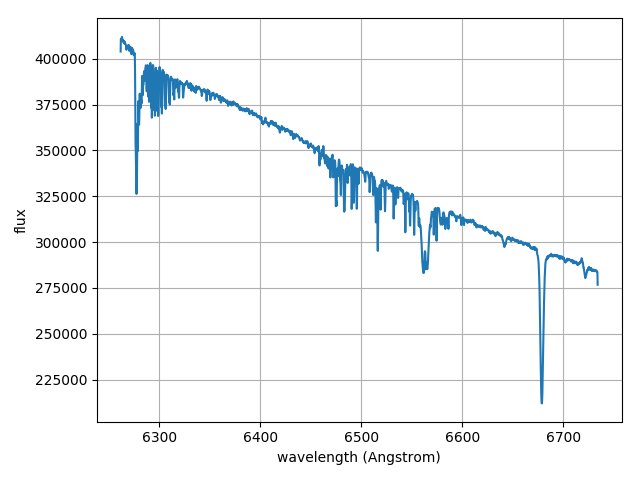
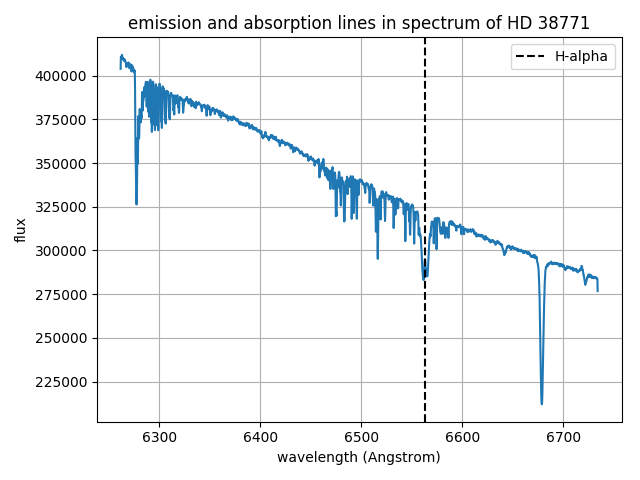
Add info about archives and h-alpha

diff --git a/tex/spectral-data.tex b/tex/spectral-data.tex
@@ -15,7 +15,7 @@ hot celestial objects. This information is then used to
 derive chemical composition, temperature,
 distance, relative motion and so on.
 
-\sec Electromagnetic Radiation and Spectrum
+\sec Electromagnetic Radiation
 
 Electromagnetic radiation is pair of electric and magnetic
 fields that propagate together at the speed of light
@@ -24,7 +24,7 @@ Visible light, radio waves, X-rays and gamma rays are
 examples of electromagnetic radiation. Electromagnetic
 spectrum is collective term for known range of
 electromagnetic radiation. The electric and magnetic field
-oscillates and produces electromagnetic waves.
+oscillates and produces electromagnetic waves. \cite[cosmos]
 
 The electromagnetic wave is describe in terms of frequency
 or wavelength:
@@ -39,9 +39,7 @@ or astronomy usually uses Angstrom (1\,\AA~=~10$^{-10}$\,m).
 
 Frequency and wavelength are related by wave equation:
 
-$$
-c = \lambda f
-$$
+$$ c = \lambda f \eqmark $$
 
 \sec Blackbody Radiation
 
@@ -49,11 +47,11 @@ A blackbody is a hypothetical object which is a perfect
 absorber and emitter of radiation over all wavelengths.
 The spectral flux distribution of blackbody's thermal
 energy depends on its temperature.
-
 Stars are often modelled as blackbodies in astronomy.
-Their spectrum approximates the blackbody spectrum.
+Their spectrum approximates the blackbody spectrum. \cite[cosmos]
 
-\medskip
+
+\medskip \clabel[blackbody]{Blackbody radiation}
 \picw=15cm \cinspic img/blackbody.png
 \caption/f Blackbody radiation curves of 3000, 4000 and 5000 Kelvins hot
 stars.
@@ -84,7 +82,7 @@ wavelengths equal to the difference between the energy
 levels. Energy and wavelength, frequency are related
 throught Planck-Einstein relation:
 
-$$ E = h f, \quad E = {h c \over \lambda} $$
+$$ E = h f, \quad E = {h c \over \lambda} \eqmark $$
 
 where $h$~=~6.62607004~$\cdot$~10$^{-34}$\,J\,$\cdot$\,s is
 Planck constant. On a graph of wavelengths fluxes emission
@@ -96,10 +94,16 @@ source and the observer. The material could be outer layers
 of a stars or interstellar gas. Atoms will absorb specific
 energies from the electromagnetic spectrum specifically to
 atom's energy levels. On graph these absorption
-features are show below the level of a star's blacbody
+features are show below the level of a star's blackbody
 continuum spectrum.
 
-\medskip
+\secc H-alpha
+
+H-alpha is deep-red visible spectral line. Its wavelength is 6562.8\,\AA.
+This spectral line is created whe electron moves between the second and third
+energy level of hydrogen atom.
+
+\medskip \clabel[spectral-lines]{Spectral lines}
 \picw=15cm \cinspic img/spectral-lines.png
 \caption/f Part of electromagnetic spectrum of blue supergiant star HD
 38771 with a lot of absorpsion and some emission lines.
@@ -107,18 +111,45 @@ continuum spectrum.
 
 \sec Ondřejov Archive
 
-TODO
+Archive of Ondřejov observatory spectral data is available at ASU CAS Data
+Center\urlnote{http://voarchive.asu.cas.cz/}.
+It currently contains about 17000 specta \cite[voarchive].
+The data were obtained with Ondřejov Perek 2\,m telescope and CCD700 chip.
+The spectrograph's resolution power is about 13000 in H-alpha \cite[stelweb].
+
+{\bf Resolution power} of a spectrograph is defined as:
+
+$$ R = {\lambda \over \Delta \lambda} \eqmark $$
+
+where $\Delta \lambda$ is the smallest difference in wavelengths that can be
+distinguished at a wavelength of $\lambda$.
 
 \sec LAMOST Archive
 
-TODO
+The Large Sky Area Multi-Object Fiber Spectroscopic Telescope (LAMOST) is
+telescope located in China with spectral resolution power 500, 1000 or 1500.
+LAMOST archive contains more than 7 milions of spectra.
+The latest observations are available in data release 5
+Q1\urlnote{http://dr5.lamost.org/}. \cite[lamost]
+
+\midinsert \clabel[lamost]{LAMOST data releases}
+\ctable{lrr}{
+    \hfil survey & total spectra \hfil & stars \hfil \crl \tskip4pt
+    pilot        & 958944              & 812911      \cr
+    first year   & 1701669             & 1529958     \cr
+    second year  & 1648485             & 1501002     \cr
+    third year   & 1659028             & 1511032     \cr
+    forth year   & 1713059             & 1543415     \cr
+}
+\caption/t Statistics of LAMOST data releases according to \cite[lamostdr4].
+\endinsert
 
 \sec FITS File Format
 
 Flexible Image Transport System is data format used within
 astronomy for transporting, analyzing, archiving scientific
 data files. It is design to store data sets consisting of
-multidimensiional arrays and two dimensional tables.
+multidimensiional arrays and two dimensional tables. \cite[fits-support-office]
 
 \secc HDUs
 
